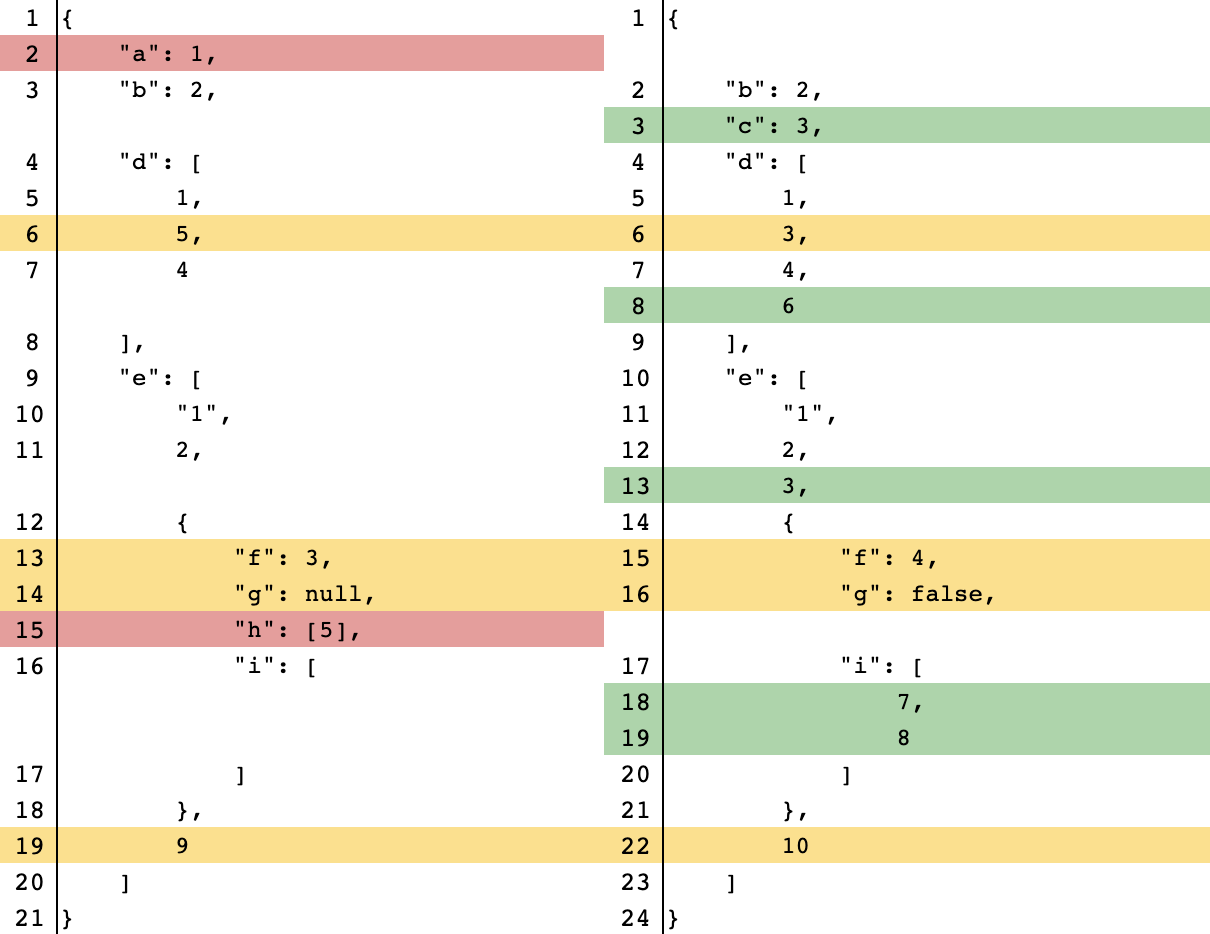
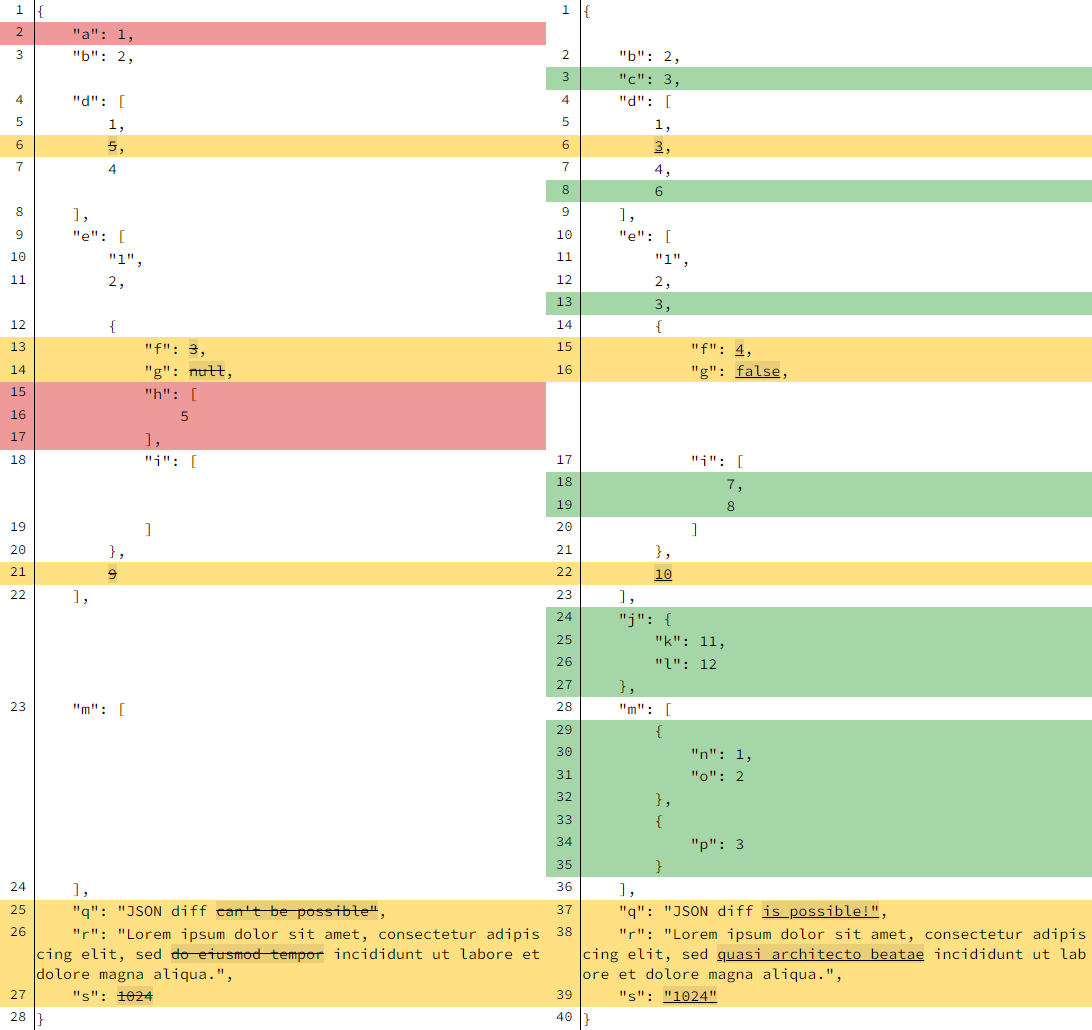
feat(viewer): support inline diffing by word

diff --git a/demo/index.tsx b/demo/index.tsx
@@ -3,6 +3,8 @@ import ReactDOM from 'react-dom';
 
 import { Differ, Viewer } from '../src';
 import type { DifferOptions } from '../src/differ';
+import { InlineDiffOptions } from '../src/utils/get-inline-diff';
+import type { ViewerProps } from '../src/viewer';
 
 import '../src/viewer.less';
 import './index.less';
@@ -14,6 +16,8 @@ const Demo: React.FC = () => {
   const [arrayDiffMethod, setArrayDiffMethod] = React.useState<DifferOptions['arrayDiffMethod']>('lcs');
   const [indent, setIndent] = React.useState(4);
   const [highlightInlineDiff, setHighlightInlineDiff] = React.useState(true);
+  const [inlineDiffMode, setInlineDiffMode] = React.useState<InlineDiffOptions['mode']>('word');
+  const [inlineDiffSeparator, setInlineDiffSeparator] = React.useState(' ');
 
   const differ = React.useMemo(() => new Differ({
     detectCircular,
@@ -60,12 +64,23 @@ const Demo: React.FC = () => {
   const [after4] = React.useState(666);
   const diff4 = React.useMemo(() => differ.diff(before4, after4), [differ, before4, after4]);
 
+  const viewerCommonProps: Partial<ViewerProps> = {
+    indent: indent,
+    lineNumbers: true,
+    highlightInlineDiff,
+    inlineDiffOptions: {
+      mode: inlineDiffMode,
+      wordSeparator: inlineDiffSeparator || '',
+    },
+  };
+
   return (
     <div className="demo-root">
       <h1>JSON Diff Kit</h1>
       <div className="statistics">
         <img src="https://img.shields.io/npm/v/json-diff-kit.svg" />
         <img src="https://img.shields.io/npm/dm/json-diff-kit.svg" />
+        <img src="https://codecov.io/gh/RexSkz/json-diff-kit/branch/master/graph/badge.svg?token=8YRG3M4WTO" />
         <iframe
           src="https://ghbtns.com/github-btn.html?user=rexskz&repo=json-diff-kit&type=star&count=true"
           frameBorder="0"
@@ -75,8 +90,8 @@ const Demo: React.FC = () => {
           title="GitHub"
         />
       </div>
-      <p>A better JSON differ & viewer.</p>
-      <h2>Diff Configuration</h2>
+      <p>A better JSON differ & viewer library written in TypeScript.</p>
+      <h2>Differ Configuration</h2>
       <div className="diff-config">
         <form>
           <label htmlFor="detect-circular">
@@ -123,7 +138,7 @@ const Demo: React.FC = () => {
               onChange={e => setShowModifications(e.target.checked)}
             />
           </label>
-          <blockquote>Support recognizing modifications, default <code>true</code> means the differ will output the <code>* modified</code> sign apart from the basic <code>+ add</code> and <code>- remove</code> sign. If you prefer Git output, please set it to <code>false</code>.</blockquote>
+          <blockquote>Support recognizing modifications, default <code>true</code> means the differ will output the <code>* modified</code> sign apart from the basic <code>+ add</code> and <code>- remove</code> sign. If you prefer Git-style output, please set it to <code>false</code>.</blockquote>
           <label htmlFor="array-diff-method">
             Array diff method:
             <select
@@ -131,7 +146,7 @@ const Demo: React.FC = () => {
               value={arrayDiffMethod}
               onChange={e => setArrayDiffMethod(e.target.value as DifferOptions['arrayDiffMethod'])}
             >
-              <option value="normal">normal</option>
+              <option value="normal">normal (default)</option>
               <option value="lcs">lcs</option>
               <option value="unorder-normal">unorder-normal</option>
               <option value="unorder-lcs">unorder-lcs</option>
@@ -140,7 +155,7 @@ const Demo: React.FC = () => {
           <blockquote>The way to diff arrays, default is <code>"normal"</code>. You can change this value and see the examples below to see their differences.</blockquote>
         </form>
       </div>
-      <h2>Diff Configuration</h2>
+      <h2>Viewer Configuration</h2>
       <div className="view-config">
         <form>
           <label htmlFor="indent">
@@ -164,19 +179,39 @@ const Demo: React.FC = () => {
               onChange={e => setHighlightInlineDiff(e.target.checked)}
             />
           </label>
-          <blockquote>Whether to show the inline diff highlight. For example, if the left value <code>"JSON diff can't be possible"</code> is changed to the right value <code>"JSON diff is possible"</code>, it will be recognized as we first remove <code>can't be</code> and then add <code>is</code>. Note: the <code>showModification</code> must be enabled, or you will not see modified lines.</blockquote>
+          <blockquote>Whether to show the inline diff highlight. For example, if the left value <code>"JSON diff can't be possible"</code> is changed to the right value <code>"JSON diff is possible"</code>, it will be recognized as we first remove <code>can't be</code> and then add <code>is</code>. This feature is powered by <a href="https://github.com/gliese1337/fast-myers-diff" target="_blank">gliese1337/fast-myers-diff</a>. Note: the <code>showModification</code> must be enabled, or you will not see modified lines.</blockquote>
+          <label htmlFor="inline-diff-options">
+            Inline Diff Options:
+            <span>Diff method</span>
+            <select
+              id="inline-diff-mode"
+              value={inlineDiffMode}
+              onChange={e => setInlineDiffMode(e.target.value as InlineDiffOptions['mode'])}
+            >
+              <option value="char">char (default)</option>
+              <option value="word">word</option>
+            </select>
+            <span>Word separator</span>
+            <input
+              id="inline-diff-separator"
+              value={inlineDiffSeparator}
+              onChange={e => setInlineDiffSeparator(e.target.value)}
+              placeholder="Works when mode = char"
+            />
+          </label>
+          <blockquote>You can control the inline diff behaviour. If the inline diff sources are sentences, we can diff them "by word" instead of "by character". For normal sentences, just set the method to <code>word</code> and the separator to <code>" "</code> (a half-width space) like this demo. But if you prefer the Git-style output, you can leave this props default, which is diffing "by character".</blockquote>
         </form>
       </div>
       <div className="diff-result">
         <h2>Examples</h2>
         <p>An regular example with 2 objects.</p>
-        <Viewer diff={diff1} indent={indent} lineNumbers={true} highlightInlineDiff={highlightInlineDiff} />
+        <Viewer diff={diff1} {...viewerCommonProps} />
         <p>An example with 2 arrays.</p>
-        <Viewer diff={diff2} indent={indent} lineNumbers={true} highlightInlineDiff={highlightInlineDiff} />
+        <Viewer diff={diff2} {...viewerCommonProps} />
         <p>2 variables with different types. The algorithm always returns the result "left is removed, right is added".</p>
-        <Viewer diff={diff3} indent={indent} lineNumbers={true} highlightInlineDiff={highlightInlineDiff} />
+        <Viewer diff={diff3} {...viewerCommonProps} />
         <p>2 variables with the same primitive type. The algorithm always returns the result "left is modified to right" (if <code>showModification</code> is set to <code>false</code>, it will return the result "left is removed, right is added").</p>
-        <Viewer diff={diff4} indent={indent} lineNumbers={true} highlightInlineDiff={highlightInlineDiff} />
+        <Viewer diff={diff4} {...viewerCommonProps} />
       </div>
       <div className="demo-footer">
         <p>Made with ♥ by Rex Zeng</p>

diff --git a/src/utils/get-inline-diff.ts b/src/utils/get-inline-diff.ts
@@ -1,14 +1,75 @@
 import { lcs as myersDiff } from 'fast-myers-diff';
 
+export interface InlineDiffOptions {
+  mode?: 'char' | 'word';
+  wordSeparator?: string;
+}
+
 export interface InlineDiffResult {
   type: 'add' | 'remove' | 'equal';
   text: string;
 }
 
-const getInlineDiff = (l: string, r: string) => {
+const filterEmptyParts = (arr: InlineDiffResult[]) => {
+  return arr.filter(item => item.text.length);
+};
+
+const joinBySeparator = (arr: InlineDiffResult[], separator: string) => {
+  if (!arr.length) {
+    return arr;
+  }
+  const result: InlineDiffResult[] = [];
+  for (let i = 0; i < arr.length; i++) {
+    if (result.length && arr[i].text.length) {
+      if (result[result.length - 1].type === 'equal') {
+        result[result.length - 1] = {
+          ...result[result.length - 1],
+          text: result[result.length - 1].text + separator,
+        };
+      } else {
+        result.push({ type: 'equal', text: separator });
+      }
+    }
+    result.push(arr[i]);
+  }
+  return result;
+};
+
+const getInlineDiff = (l: string, r: string, options: InlineDiffOptions) => {
+  if (options.mode === 'word') {
+    const lArr = l.split(options.wordSeparator);
+    const rArr = r.split(options.wordSeparator);
+    const iter = myersDiff(lArr, rArr);
+    let resultL: InlineDiffResult[] = [];
+    let resultR: InlineDiffResult[] = [];
+    let lastL = 0;
+    let lastR = 0;
+    for (const [sl, sr, length] of iter) {
+      if (sl > lastL) {
+        resultL.push({ type: 'remove', text: lArr.slice(lastL, sl).join(options.wordSeparator) });
+      }
+      if (sr > lastR) {
+        resultR.push({ type: 'add', text: rArr.slice(lastR, sr).join(options.wordSeparator) });
+      }
+      lastL = sl + length;
+      lastR = sr + length;
+      resultL.push({ type: 'equal', text: lArr.slice(sl, lastL).join(options.wordSeparator) });
+      resultR.push({ type: 'equal', text: rArr.slice(sr, lastR).join(options.wordSeparator) });
+    }
+    if (l.length > lastL) {
+      resultL.push({ type: 'remove', text: lArr.slice(lastL).join(options.wordSeparator) });
+    }
+    if (r.length > lastR) {
+      resultR.push({ type: 'add', text: rArr.slice(lastR).join(options.wordSeparator) });
+    }
+    resultL = joinBySeparator(filterEmptyParts(resultL), options.wordSeparator);
+    resultR = joinBySeparator(filterEmptyParts(resultR), options.wordSeparator);
+    return [resultL, resultR];
+  }
+
   const iter = myersDiff(l, r);
-  const resultL: InlineDiffResult[] = [];
-  const resultR: InlineDiffResult[] = [];
+  let resultL: InlineDiffResult[] = [];
+  let resultR: InlineDiffResult[] = [];
   let lastL = 0;
   let lastR = 0;
   for (const [sl, sr, length] of iter) {
@@ -29,6 +90,8 @@ const getInlineDiff = (l: string, r: string) => {
   if (r.length > lastR) {
     resultR.push({ type: 'add', text: r.substring(lastR) });
   }
+  resultL = filterEmptyParts(resultL);
+  resultR = filterEmptyParts(resultR);
   return [resultL, resultR];
 };
 

diff --git a/src/viewer.tsx b/src/viewer.tsx
@@ -1,9 +1,10 @@
 import * as React from 'react';
 
 import type { DiffResult } from './differ';
-import getInlineDiff, { InlineDiffResult } from './utils/get-inline-diff';
+import getInlineDiff from './utils/get-inline-diff';
+import type { InlineDiffResult, InlineDiffOptions } from './utils/get-inline-diff';
 
-interface ViewerProps {
+export interface ViewerProps {
   /** The diff result `[before, after]`. */
   diff: readonly [DiffResult[], DiffResult[]];
   /** Configure indent, default `2` means 2 spaces. */
@@ -18,6 +19,8 @@ interface ViewerProps {
   lineNumbers?: boolean;
   /** Whether to show the inline diff highlight, default is `false`. */
   highlightInlineDiff?: boolean;
+  /** Controls the inline diff behaviour, the `highlightInlineDiff` must be enabled. */
+  inlineDiffOptions?: InlineDiffOptions;
   /** Extra class names */
   className?: string;
   /** Extra styles */
@@ -32,6 +35,10 @@ const Viewer: React.FC<ViewerProps> = props => {
   const indent = props.indent ?? 2;
   const indentChar = indent === 'tab' ? '\t' : ' ';
   const indentSize = indent === 'tab' ? 1 : indent;
+  const inlineDiffOptions: InlineDiffOptions = {
+    mode: props.inlineDiffOptions?.mode || 'char',
+    wordSeparator: props.inlineDiffOptions?.wordSeparator || '',
+  };
 
   const renderInlineDiffResult = (arr: InlineDiffResult[][]) => {
     return arr.map(result => (
@@ -62,8 +69,9 @@ const Viewer: React.FC<ViewerProps> = props => {
   const renderLine = (index: number) => {
     const l = linesLeft[index];
     const r = linesRight[index];
+
     const [lText, rText] = props.highlightInlineDiff && l.type === 'modify' && r.type === 'modify'
-      ? renderInlineDiffResult(getInlineDiff(l.text, r.text))
+      ? renderInlineDiffResult(getInlineDiff(l.text, r.text, inlineDiffOptions))
       : [l.text, r.text];
 
     const bgColourL = l.type !== 'equal' ? props.bgColour?.[l.type] ?? '' : '';

diff --git a/demo/index.less b/demo/index.less
@@ -11,6 +11,11 @@ code {
   padding: 0 4px;
 }
 
+a,
+a:visited {
+  color: dodgerblue;
+}
+
 [disabled] {
   cursor: not-allowed;
 }
@@ -46,6 +51,11 @@ code {
         display: flex;
         align-items: center;
         user-select: none;
+
+        span {
+          font-weight: normal;
+          margin-left: 1em;
+        }
 
         input,
         select {

diff --git a/src/index.ts b/src/index.ts
@@ -2,9 +2,18 @@ import Differ from './differ';
 import Viewer from './viewer';
 
 export type {
+  InlineDiffOptions,
+  InlineDiffResult,
+} from './utils/get-inline-diff';
+
+export type {
   ArrayDiffFunc,
   DifferOptions,
   DiffResult,
 } from './differ';
+
+export type {
+  ViewerProps,
+} from '../src/viewer';
 
 export { Differ, Viewer };

diff --git a/README.md b/README.md
@@ -4,7 +4,7 @@
 [![Downloads][download-badge]][npm-url]
 [![Codecov](https://codecov.io/gh/RexSkz/json-diff-kit/branch/master/graph/badge.svg?token=8YRG3M4WTO)](https://codecov.io/gh/RexSkz/json-diff-kit)
 
-A better JSON differ & viewer.
+A better JSON differ & viewer library written in TypeScript. [DEMO here!](https://json-diff-kit.js.org/)
 
 > Notice: considering most of the browsers now support ES6, this library has only the ES6 version. If you need the compatibility with older browsers, please configure the compiler in your project (e.g. add this library to the `include` field in `babel.config.js`).
 
@@ -30,17 +30,30 @@ To generate the diff data:
 ```ts
 import { Differ } from 'json-diff-kit';
 
+// the two JS objects
 const before = {
   a: 1,
   b: 2,
   d: [1, 5, 4],
   e: ['1', 2, { f: 3, g: null, h: [5], i: [] }, 9],
+  m: [],
+  q: 'JSON diff can\'t be possible',
+  r: 'Lorem ipsum dolor sit amet, consectetur adipiscing elit, sed do eiusmod tempor incididunt ut labore et dolore magna aliqua.',
+  s: 1024,
 };
 const after = {
   b: 2,
   c: 3,
   d: [1, 3, 4, 6],
   e: ['1', 2, 3, { f: 4, g: false, i: [7, 8] }, 10],
+  j: { k: 11, l: 12 },
+  m: [
+    { n: 1, o: 2 },
+    { p: 3 },
+  ],
+  q: 'JSON diff is possible!',
+  r: 'Lorem ipsum dolor sit amet, consectetur adipiscing elit, sed quasi architecto beatae incididunt ut labore et dolore magna aliqua.',
+  s: '1024',
 };
 
 // all configs are optional
@@ -48,9 +61,11 @@ const differ = new Differ({
   detectCircular: true,    // default `true`
   maxDepth: Infinity,      // default `Infinity`
   showModifications: true, // default `true`
-  arrayDiffMethod: 'lcs',  // default `"normal"`
+  arrayDiffMethod: 'lcs',  // default `"normal"`, but `"lcs"` may be more useful
 });
 
+// you may want to use `useMemo` (for React) or `computed` (for Vue)
+// to avoid redundant computations
 const diff = differ.diff(before, after);
 console.log(diff);
 ```
@@ -74,6 +89,10 @@ const Page: React.FC<PageProps> = props => {
       indent={4}                 // default `2`
       lineNumbers={true}         // default `false`
       highlightInlineDiff={true} // default `false`
+      inlineDiffOptions={{
+        mode: 'word',            // default `"char"`, but `"word"` may be more useful
+        wordSeparator: ' ',      // default `""`, but `" "` is more useful for sentences
+      }}
     />
   );
 };
@@ -85,11 +104,20 @@ The result is here:
 
 ## More Complex Usages
 
-Please check the [demo pages](https://json-diff-kit.js.org/).
+Please check the [demo page](https://json-diff-kit.js.org/), where you can adjust nearly all parameters and see the result.
 
 ## Algorithm Details
 
 Please refer to the article [JSON Diff Kit: A Combination of Several Simple Algorithms](https://blog.rexskz.info/json-diff-kit-a-combination-of-several-simple-algorithms.html).
+
+## Features & Roadmap
+
+- [x] Provide a `Differ` class and a `Viewer` component
+- [x] Merge "remove & add" at the same place as a modification
+- [x] Support inline diffing by word instead of by character
+- [ ] Generate code directly in the demo page
+- [ ] Add CLI tool
+- [ ] Improve unit tests
 
 ## License
 
